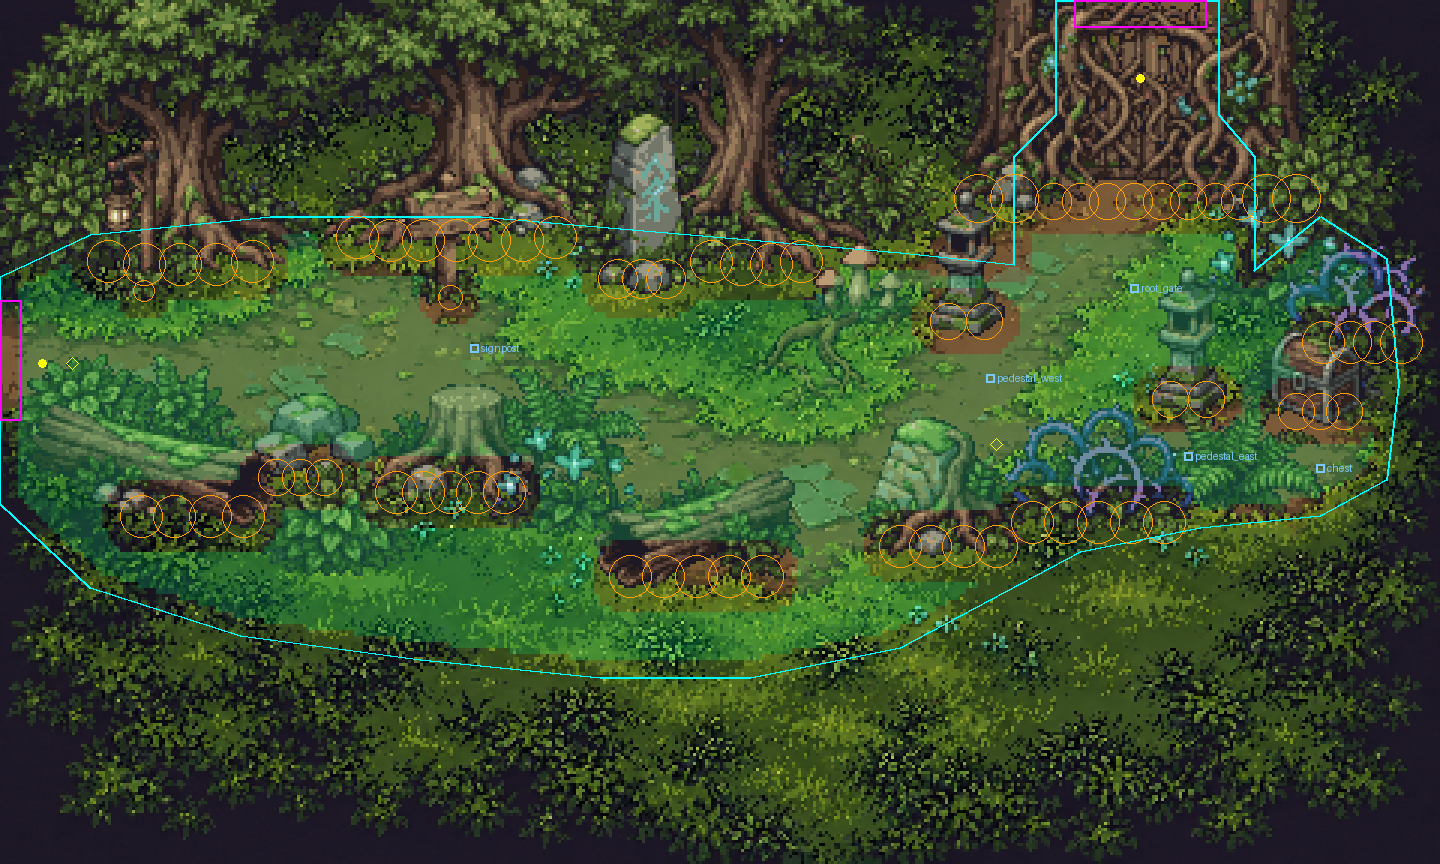
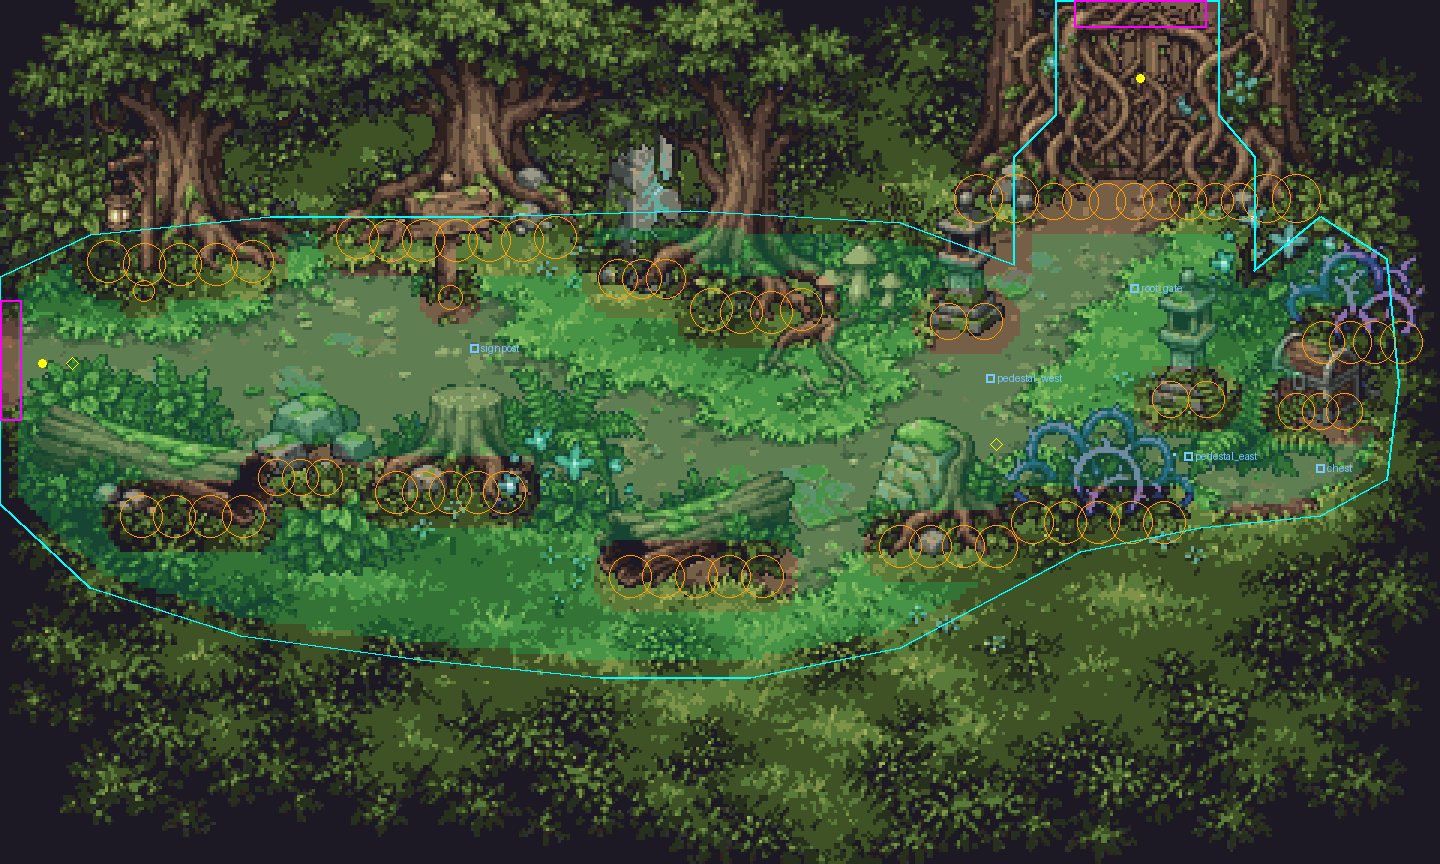
Forest: open a pocket behind the middle tree for the review capture, test it, review f70ad0f

diff --git a/docs/architecture.md b/docs/architecture.md
@@ -390,7 +390,7 @@ A layered scene has a painted floor and props as separate sprites, so depth orde
 - **Village (`SceneDefs.VILLAGE_LAYERED`, `&"village_layered"`, 2026-10-27):** same mechanism, second scene in `SceneDefs.LAYERED` (not in `IDS`; forest -> village stays the painted village until the human switches). 571x336, 34 placements of 31 village types (`data/props/prop_defs.json`, `village_*`; the glade's `glade_*` entries are untouched, extraction used `--merge`). Entries `arrival` (74,146, just south of the rune gate's opening) and `return` (546,172); exit `to_forest` (rect 565,150,6,42 -> forest `village_side`); checkpoint `village_layered_gate`; the six NPCs of the painted village with their sprite names (`npc_mira`, `npc_tovan`, `npc_edda`, `npc_elder`, `npc_child`, `npc_worker`) and the three interactions (`chest`, `edda_door`, `training_dummy`) with their use spots in front. The ground is a NEW painting (different roads than the old village), so every point is placed for it, not copied from `core/village_layout.gd`. `ground` is the converted runtime floor `res://presentation/village/village_layered_ground.png` (571x336; the glade's is `res://presentation/forest/glade_layered_ground.png`, 560x336; set 2026-10-27, no layered scene loads a ground from `art/reference/` any more, `tests/core/test_layered_progress.gd` checks path and size). Solid: gate (left pillar and door leaf + right pillar are separate, the 27 px opening between stays free), cottage (both wall bases; the door is solid, used from in front), forge (with its anvil and bench, which are part of the sprite: never place them again), both big trees, shrine, standing stone, lamp post, dummy, shelf, barrels, crates, pile, rocks, stump, slabs, rubble, chest. Walk-through decor: bushes, ferns, mushrooms, bucket, rope. Review image: `python tools/art/preview_layered_glade.py --scene village_layered` -> `docs/previews/village_layered_overlay.png` (also prints whether every entry, checkpoint, NPC spot, use spot and exit is reachable).
 - **Presentation contract (reviewed 2026-10-27, commits f225d05 and 0c4ffde):** `presentation/explore/explore_scene.gd` draws a scene of `SceneDefs.LAYERED` from `PropScene.placements(SceneDefs.layered_data(id), PropScene.load_defs())` through `presentation/common/props_layer.gd`; NPCs and the E interactions still come from the snapshot (the chest, door and dummy are props, no second sprite). Atlas frames of the village are the cut-outs padded to multiples of 8 at the top and the right only (never at the bottom); `presentation/common/prop_art.json` has `trim` `[0, top_pad, w, h]` per type and the renderer crops the padding, then places the cut-out by the SHARED anchor of `prop_defs.json` (the text-grid header anchors are rounded integers because the parser rejects half pixels; the draw origin is snapped to whole pixels, at most 0.5 px off, colliders never move). The glade frames are padded at the right and bottom with the content at (0,0) and are drawn untrimmed. Check: every village cut-out equals its trimmed atlas region pixel for pixel and every header anchor is within 0.5 px (x) and exact (y) of the shared one. Depth: the log is cut into 4 px strips (`sort_strips`), each sorted at its own lowest row; everything else sorts by the anchor row. Shadows lie on the floor before the sorted pass: a separate cast mask per prop (`fx_shadow_*`, normal and mirrored, key light from the upper left) and a short contact shadow; the hero and NPCs cast a sheared copy of their frame. Night look (the human chose the soft one, 2026-10-27; keep it): `overhead_light.gdshader` as the scene's `material` (cool moon colour, 5 warm fixtures from `presentation/common/local_lights.json`, at most 16 light entries), toggled with 7/F9. Presentation-only: the core has no light or time-of-day data. Debug jumps: 5/F7 village_layered, 6/F8 glade_layered. The chapter routes (forest exits) still lead to the painted village and glade.
 - **Stateful props and the lantern puzzle (2026-10-27, `forest_layered`):** a placement row may carry `"when": "gate_open"` or `"lit:<switch id>"` plus `"on_type": "<type>"`; `PropScene.placements/prop_colliders/build(scene, defs, states)` take `states = {"gate_open": bool, "lit": [switch ids]}` and show/collide the `on_type` while the state holds (default: everything off). The returned placement's `type` is the one to draw, `state` is `&"on"/&"off"`. The two types of a pair must share `w`, `h` and `anchor` (`PropScene.validate` checks it; `tools/art/normalize_state_pairs.py` makes the cut-outs match: bottom rows together, horizontal search, transparent padding only, pixels copied) and have their own colliders: `forest_gate_closed` is solid across its doorway, `forest_gate_open` only at its two trunks, the two pedestal types have identical colliders. A scene file may have `"puzzle": {"switches": [object ids]}`: `ExploreCore` lights a switch when the hero presses E on it (event `switch_lit` {scene, switch_id, lit, all_lit}), and when every switch is lit it calls `set_gate_open(true)` (event `gate_changed` on the next step, colliders rebuilt). The snapshot exposes `gate_open` and `lit_switches`; an open gate (the only thing the save keeps, `SaveProfile.gate_open`) means every switch is lit, so a continued game shows both pedestals lit; `set_gate_open(false)` (debug) unlights them. `SceneDefs.build_obstacles(scene, gate_open, lit)` passes the states to layered scenes. Scenes without a `puzzle` (the painted forest) are unchanged: E on their pedestals does nothing.
-- **Forest (`SceneDefs.FOREST_LAYERED`, `&"forest_layered"`, 2026-10-27, sources awaiting the owner's approval):** third scene in `SceneDefs.LAYERED` (not in `IDS`; the painted forest stays the route). 480x288, 28 placements of the 25 `forest_*` types (`data/props/cutouts_forest/` holds the extraction output: not in `art/`, Codex copies it). Entries `village_side` (14,121) and `north` (380,26, behind the gate); exits `to_village` (left edge, -> `village`/`return`) and `to_glade` (top edge, -> `glade`/`entrance`); checkpoints `forest_layered_entrance` (24,121) and `forest_layered_puzzle` (332,148); objects `signpost`, `pedestal_west`, `pedestal_east` (kind `lantern_switch`), `root_gate` (kind `door`) and `chest`, each used from in front; `puzzle.switches` = both pedestals. The root gate (feet 378,72, across the climb to the top exit) is closed until both pedestals are lit; the trail beyond it is reachable only then (the tests check closed: no path, open: path; closed: no dash or walk through). `ground` is `res://presentation/forest/forest_layered_ground.png`, which Codex still has to create (`tests/core/test_layered_progress.gd` lists it as pending and checks only the path). The ground is a NEW painting with a different trail layout, so every point is placed for it, not copied from `core/forest_layout.gd`. Review: `python tools/art/preview_layered_glade.py --scene forest_layered [--state-on]` -> `docs/previews/forest_layered_overlay[_open].png`.
+- **Forest (`SceneDefs.FOREST_LAYERED`, `&"forest_layered"`, 2026-10-27, sources awaiting the owner's approval):** third scene in `SceneDefs.LAYERED` (not in `IDS`; the painted forest stays the route). 480x288, 28 placements of the 25 `forest_*` types (`data/props/cutouts_forest/` holds the extraction output: not in `art/`, Codex copies it). Entries `village_side` (14,121) and `north` (380,26, behind the gate); exits `to_village` (left edge, -> `village`/`return`) and `to_glade` (top edge, -> `glade`/`entrance`); checkpoints `forest_layered_entrance` (24,121) and `forest_layered_puzzle` (332,148); objects `signpost`, `pedestal_west`, `pedestal_east` (kind `lantern_switch`), `root_gate` (kind `door`) and `chest`, each used from in front; `puzzle.switches` = both pedestals. The root gate (feet 378,72, across the climb to the top exit) is closed until both pedestals are lit; the trail beyond it is reachable only then (the tests check closed: no path, open: path; closed: no dash or walk through). `ground` is `res://presentation/forest/forest_layered_ground.png`, which Codex still has to create (`tests/core/test_layered_progress.gd` lists it as pending and checks only the path). The ground is a NEW painting with a different trail layout, so every point is placed for it, not copied from `core/forest_layout.gd`. `tree_middle` stands at feet (252,108) and the outline's top edge near it is (230,70) / (300,74), which leaves a pocket behind its trunk where the hero can stand hidden (feet 248,88; guarded by a test). Review: `python tools/art/preview_layered_glade.py --scene forest_layered [--state-on]` -> `docs/previews/forest_layered_overlay[_open].png`.
 - **Extractor** (`tools/art/extract_props.py`): `--merge` keeps every existing defs entry (several sheets and scenes share one file), `--prefix` names unnamed props, `--names` may contain `-` to skip a prop (the village's anvil and bench sheet entries), `--contact` names the contact sheet; every entry also records `src_bbox` (where the prop sat on its sheet). The village was extracted with sheet A at `--world-width 425` (door of the cottage 39 px) and sheet B at `--world-width 320` (barrel 28 px, dummy 38 px): the two sheets were generated at different scales.
 - **Authoritative data:** `data/props/prop_defs.json` (all 20 types hand-tuned and `"locked": true`, each with a `note`) and `data/scenes/glade_layered_props.json` (20 placements = the approved arrangement). `presentation/forest/glade_props.json` is Codex's review fixture; `tests/core/test_glade_layered.gd` fails if it exists and differs. Solid: stones (2 circles on the stone body, not the foliage), rocks, tree, stump, log (6 circles along its rising lower edge), thorns, tall bush (`glade_bush_1`) and the arch (two separate feet, 24 px gap). Walk-through decor: `glade_bush_2`, both ferns, antler, mushrooms.
 - **Review image / numbers:** `python tools/art/preview_layered_glade.py` writes `docs/previews/glade_layered_overlay.png` (3x: sprites, outline, colliders, openings, Stag reach tint) and prints the shares (an approximation; the core tests are the rule).

diff --git a/docs/STATUS.md b/docs/STATUS.md
@@ -1,5 +1,11 @@
 # STATUS (handoff note)
 
+## Forest: the middle tree's behind pose, review of Codex's f70ad0f (2026-10-27, Claude Code)
+
+**The finding was right:** with the tree at feet (252,92) and the outline's top edge at y 78-84 there, only a pose beside the trunk was reachable (281,90), and the tree covered the hero just 48 % there (leaf fringe, no trunk; measured on the sprite). **Layout change (shared data, art untouched, route untouched):** `tree_middle` now stands at feet **(252,108)** (the trail starts at y 125; nothing on the route moved) and the outline vertices (230,78) and (300,84) moved to **(230,70)** and **(300,74)** (still the lit lawn, the undergrowth starts near y 55). That opens a pocket behind the trunk. **Pose for the final capture: hero feet (248,88)**: the walking bot (`ExploreBot.plan(size, obstacles, start, Vector2(248, 88))`, its padded grid reaches it) walks there with the real collision, he is north of the tree's base (drawn behind it) and the tree's pixels cover 90 % or more of his body. `tests/core/test_forest_layered.gd::test_the_middle_tree_has_a_reachable_behind_pose` guards it (walks, checks y < 108, measures the cover on the cut-out); the other forest tests (gate closed/open reachability, spots, solids from 8 directions, decor, bot route) still pass. Codex's search in `smoke_forest_layered.gd` takes the first reachable point (distance 4, dx +36 = (288,104), little cover) and would not pick this pose by itself: use the explicit pose above and drop the tree_middle exception.
+
+**Review of f70ad0f (layered forest rendering): PASS**, no blocking finding. State handling matches the core contract (`_refresh_props` on scene entry, `switch_lit`, `gate_changed`, the debug toggle; the gate is saved on `gate_changed`), 25 types have metadata and masks, the two Python filters I added are gone, the earlier findings are fixed (named shadow-pass uniforms, light-budget warning, fixtures moved to `local_lights.json`, `quit(1)` in the night smoke, firefly regions, canvas-transform culling). Low findings: (1) `presentation/explore/explore_scene.gd` `toggle_gate()` saves, then the queued `gate_changed` saves again (harmless double write). (2) `presentation/common/ambient_fireflies.gd:19` `regions[index % regions.size()]` would divide by zero for a supported scene without regions in `ambient_regions.json` (all four have some today); add a guard or a test. (3) `tests/smoke_forest_layered.gd:86-93` picks the first reachable pose, not the one with the most cover, so the "behind" captures can show a hero barely overlapped by the prop; prefer a pose with at least half of his body covered (the middle tree: (248,88)). **Cannot judge:** the forest night look, the glow colours, firefly regions on the art, game feel.
+
 ## Layered forest: extraction, states, puzzle, core scene (2026-10-27, Claude Code; sources APPROVED by the owner the same day)
 
 Normal split (`core/`, `tools/`, `data/`, `tests/`, docs; no `presentation/`, no `art/`). The generated forest ground and prop sheet in `art/reference/layered_forest/` were approved by the owner on 2026-10-27 (after the findings below were shown); the gate width and the single signpost board were accepted as they are.

diff --git a/docs/CODEX_TASK_forest_layered.md b/docs/CODEX_TASK_forest_layered.md
@@ -42,3 +42,7 @@ See the newest `docs/STATUS.md` entry. Short: `smoke_night_ambience.gd` uses `as
 
 - (Done 2026-10-27: approved.) The forest ground and prop sheet are approved production sources. The sheet's single signpost board (the prompt asked for two arrow boards) and the third fern slot that reads as a small bush are findings, not approved substitutions.
 - The gate is 124 px wide against a 50 px trail; it stands across the climb with its trunks on the grass beside it. Say if the gate should be narrower (that is a new generation, or a smaller scale for this prop).
+
+## Final capture for the middle tree (2026-10-27, after your f70ad0f)
+
+`tree_middle` now stands at feet (252,108) and the outline opened a pocket behind its trunk. Capture the hero **behind** it at feet **(248,88)**: `ExploreBot.plan(size, obstacles, hero position, Vector2(248, 88))` reaches it (`tests/core/test_forest_layered.gd::test_the_middle_tree_has_a_reachable_behind_pose` does exactly that); the tree covers 90 % or more of his body there. Remove the "upper boundary prevents walking behind this tree" exception in `tests/smoke_forest_layered.gd` and use this pose for `tree_middle`. Re-take the lit/open and closed variants of that one capture and the overview images (the tree moved 16 px south).
